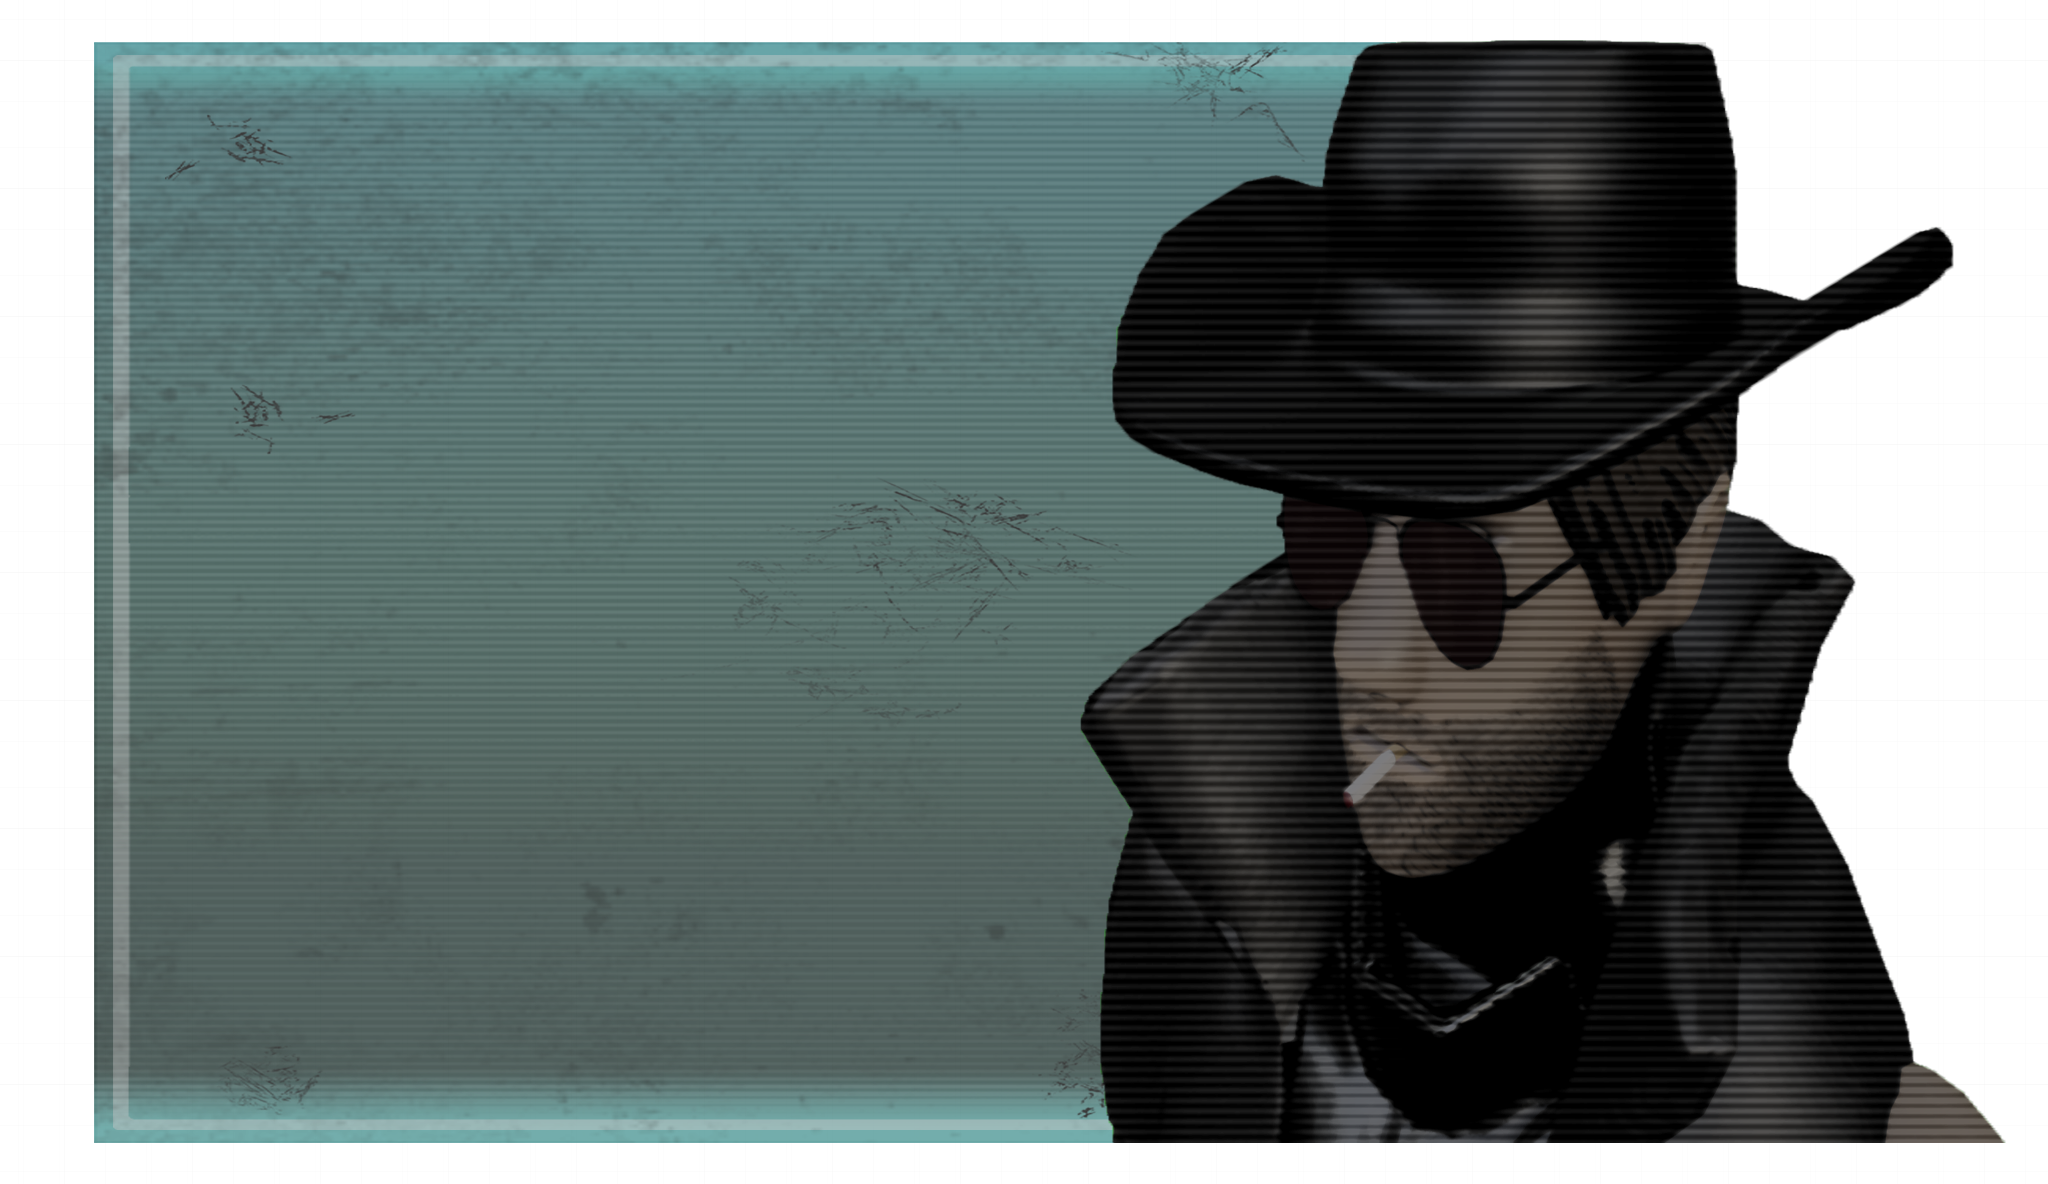
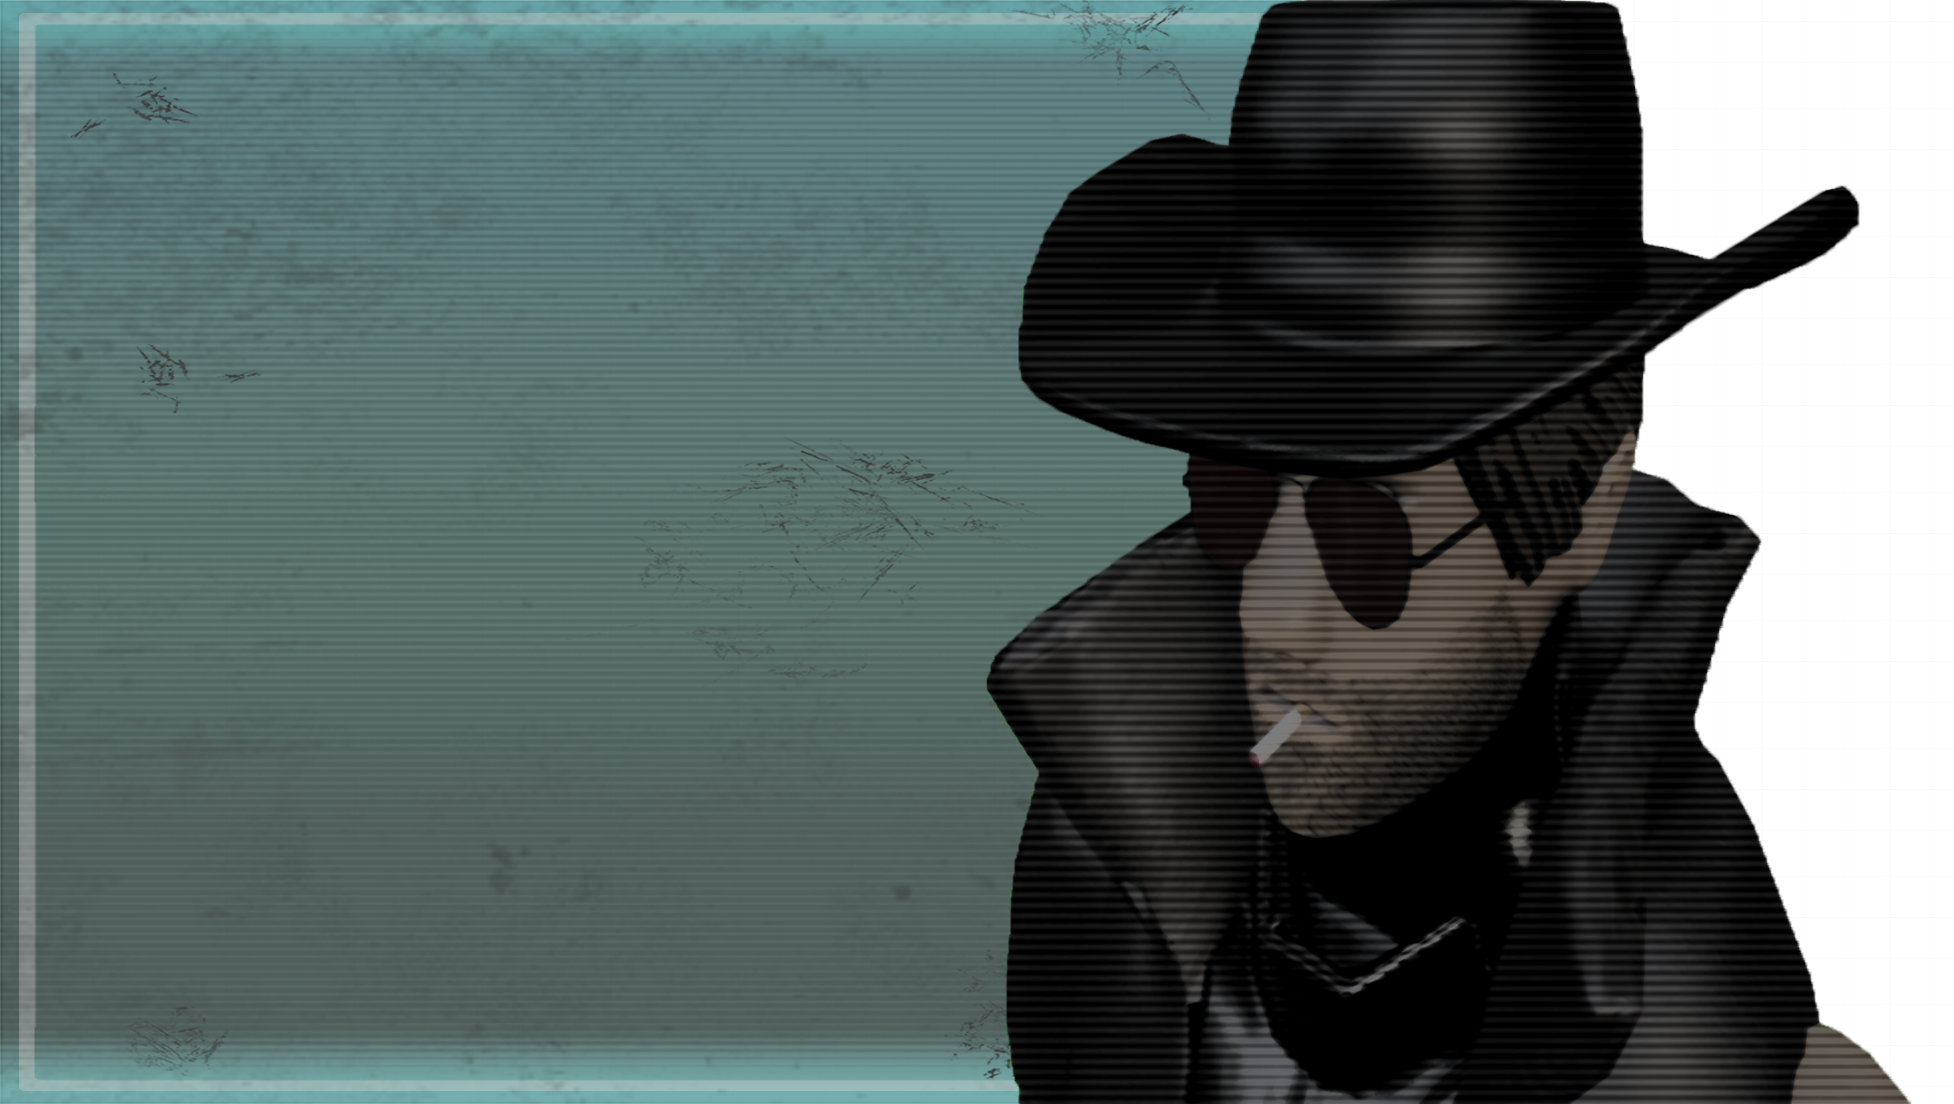
asdasdasd

Changed region(s): [[0.0, 0.0, 0.999, 1.0], [0.4371, 0.4004, 0.4995, 0.462]]

diff --git a/Moon.html b/Moon.html
@@ -3,14 +3,14 @@
 <head>
     <meta charset="UTF-8">
     <meta name="viewport" content="width=device-width, initial-scale=1.0">
-    <title>Lateral Shift - Home</title>
+    <title>Lateral Shift - Racers</title>
     <link href="https://cdn.jsdelivr.net/npm/bootstrap@5.3.3/dist/css/bootstrap.min.css" rel="stylesheet" integrity="sha384-QWTKZyjpPEjISv5WaRU9OFeRpok6YctnYmDr5pNlyT2bRjXh0JMhjY6hW+ALEwIH" crossorigin="anonymous">
     <link href="styles.css" rel="stylesheet">
     <link rel="preconnect" href="https://fonts.googleapis.com">
 <link rel="preconnect" href="https://fonts.gstatic.com" crossorigin>
 <link href="https://fonts.googleapis.com/css2?family=Oswald:wght@200..700&display=swap" rel="stylesheet">
 </head>
-<body>
+<body class="racer-page">
 
     <nav class="navbar navbar-expand-lg navbar-dark bg-black fixed-top">
         <div class="container-fluid">
@@ -38,49 +38,28 @@
             
             <div class="image-link position-absolute bottom-0 end-0 text-center">
                 <a href="#" class="download-link"><b>DEMO COMING SOON</b></a>
-            </div>            
-                      
+            </div>                              
         </div>
     </nav>
 
-    <div class="pagebg">
-
-    <div class="header-background"></div>
-
-    <!-- Overlapping Logo -->
-<div class="overlapping-logo text-center">
-    <img src="Logo.png" alt="Logo" style="height: 200px;"> <!-- Adjust the size as needed -->
-</div>
-
-<div class="Info-area">
-    <h1>Lateral Shift</h1>
-    <div class="info-details">
-    <h4>Release Date: TBD</h4>
-    <h4>Genre: Racing</h4>
-    <h4>Developer: Team Software Productions</h4>
-</div>
-</div>
-
-<div class="content-area">
-    <div class="text-and-images">
-        <!-- Text Container -->
-        <div class="text-content">
-            <h1 class="headline">Welcome to the 24th century</h1>
-            <p>Vroom vroom</p>
-            <p>NYOOOM</p>
-            <p>Voosh</p>
-            <!-- Add more <p> tags as needed -->
-        </div>
-
-        <!-- Images Container -->
-        <div class="image-content">
-            <img src="promo3.png" alt="First Image">
-            <img src="promo3.png" alt="Second Image">
+    <div class="content position-relative d-flex justify-content-center align-items-center" style="height:100vh;">
+        <!-- Positioning context for the text and image -->
+        <div class="position-relative w-100" style="margin-top: 150px; height: 90%; z-index: -1;">
+            <!-- Text element with absolute positioning -->
+            <div class="position-absolute" style="margin: 35px; left: 10%; z-index: 2;">
+                <h1 class="text-white px-2"><b>The Moon (Earth)</b></h1>
+                <h3 class="text-white px-2">Capital: Tokyo</h3>
+                <h3 class="text-white px-2">Faction: United Earth Systems (UES)</h3>
+                <br>
+                <p class="text-white px-2">Flavor text</p>
+            </div>
+            <!-- Image -->
+            <img src="MoonInfo.png" alt="Roadstar Information" class="position-absolute w-90 h-100" style="left: 10%">
         </div>
     </div>
-</div>
-
-</div>
+    
+    
+    
 
 <footer class="page-footer">
     <div class="container-fluid">
@@ -94,7 +73,6 @@
         </div>
     </div>
 </footer>
-
 
 <script src="https://cdn.jsdelivr.net/npm/bootstrap@5.3.3/dist/js/bootstrap.bundle.min.js" integrity="sha384-qmlep9F6cRgY6FM9D0A9lXm41W5onO3GXJpA6Nl+4y7fUpaY4HIF5CPItUj9mJP1" crossorigin="anonymous"></script>
 </body>

diff --git a/Earth.html b/Earth.html
@@ -3,14 +3,14 @@
 <head>
     <meta charset="UTF-8">
     <meta name="viewport" content="width=device-width, initial-scale=1.0">
-    <title>Lateral Shift - Home</title>
+    <title>Lateral Shift - Racers</title>
     <link href="https://cdn.jsdelivr.net/npm/bootstrap@5.3.3/dist/css/bootstrap.min.css" rel="stylesheet" integrity="sha384-QWTKZyjpPEjISv5WaRU9OFeRpok6YctnYmDr5pNlyT2bRjXh0JMhjY6hW+ALEwIH" crossorigin="anonymous">
     <link href="styles.css" rel="stylesheet">
     <link rel="preconnect" href="https://fonts.googleapis.com">
 <link rel="preconnect" href="https://fonts.gstatic.com" crossorigin>
 <link href="https://fonts.googleapis.com/css2?family=Oswald:wght@200..700&display=swap" rel="stylesheet">
 </head>
-<body>
+<body class="racer-page">
 
     <nav class="navbar navbar-expand-lg navbar-dark bg-black fixed-top">
         <div class="container-fluid">
@@ -38,49 +38,28 @@
             
             <div class="image-link position-absolute bottom-0 end-0 text-center">
                 <a href="#" class="download-link"><b>DEMO COMING SOON</b></a>
-            </div>            
-                      
+            </div>                              
         </div>
     </nav>
 
-    <div class="pagebg">
-
-    <div class="header-background"></div>
-
-    <!-- Overlapping Logo -->
-<div class="overlapping-logo text-center">
-    <img src="Logo.png" alt="Logo" style="height: 200px;"> <!-- Adjust the size as needed -->
-</div>
-
-<div class="Info-area">
-    <h1>Lateral Shift</h1>
-    <div class="info-details">
-    <h4>Release Date: TBD</h4>
-    <h4>Genre: Racing</h4>
-    <h4>Developer: Team Software Productions</h4>
-</div>
-</div>
-
-<div class="content-area">
-    <div class="text-and-images">
-        <!-- Text Container -->
-        <div class="text-content">
-            <h1 class="headline">Welcome to the 24th century</h1>
-            <p>Vroom vroom</p>
-            <p>NYOOOM</p>
-            <p>Voosh</p>
-            <!-- Add more <p> tags as needed -->
-        </div>
-
-        <!-- Images Container -->
-        <div class="image-content">
-            <img src="promo3.png" alt="First Image">
-            <img src="promo3.png" alt="Second Image">
+    <div class="content position-relative d-flex justify-content-center align-items-center" style="height:100vh;">
+        <!-- Positioning context for the text and image -->
+        <div class="position-relative w-100" style="margin-top: 150px; height: 90%; z-index: -1;">
+            <!-- Text element with absolute positioning -->
+            <div class="position-absolute" style="margin: 35px; left: 10%; z-index: 2;">
+                <h1 class="text-white px-2"><b>Earth</b></h1>
+                <h3 class="text-white px-2">Capital: Tokyo</h3>
+                <h3 class="text-white px-2">Faction: United Earth Systems (UES)</h3>
+                <br>
+                <p class="text-white px-2">Flavor text</p>
+            </div>
+            <!-- Image -->
+            <img src="EarthInfo.png" alt="Roadstar Information" class="position-absolute w-90 h-100" style="left: 10%">
         </div>
     </div>
-</div>
-
-</div>
+    
+    
+    
 
 <footer class="page-footer">
     <div class="container-fluid">
@@ -94,7 +73,6 @@
         </div>
     </div>
 </footer>
-
 
 <script src="https://cdn.jsdelivr.net/npm/bootstrap@5.3.3/dist/js/bootstrap.bundle.min.js" integrity="sha384-qmlep9F6cRgY6FM9D0A9lXm41W5onO3GXJpA6Nl+4y7fUpaY4HIF5CPItUj9mJP1" crossorigin="anonymous"></script>
 </body>

diff --git a/Mars.html b/Mars.html
@@ -3,14 +3,14 @@
 <head>
     <meta charset="UTF-8">
     <meta name="viewport" content="width=device-width, initial-scale=1.0">
-    <title>Lateral Shift - Home</title>
+    <title>Lateral Shift - Racers</title>
     <link href="https://cdn.jsdelivr.net/npm/bootstrap@5.3.3/dist/css/bootstrap.min.css" rel="stylesheet" integrity="sha384-QWTKZyjpPEjISv5WaRU9OFeRpok6YctnYmDr5pNlyT2bRjXh0JMhjY6hW+ALEwIH" crossorigin="anonymous">
     <link href="styles.css" rel="stylesheet">
     <link rel="preconnect" href="https://fonts.googleapis.com">
 <link rel="preconnect" href="https://fonts.gstatic.com" crossorigin>
 <link href="https://fonts.googleapis.com/css2?family=Oswald:wght@200..700&display=swap" rel="stylesheet">
 </head>
-<body>
+<body class="racer-page">
 
     <nav class="navbar navbar-expand-lg navbar-dark bg-black fixed-top">
         <div class="container-fluid">
@@ -38,49 +38,28 @@
             
             <div class="image-link position-absolute bottom-0 end-0 text-center">
                 <a href="#" class="download-link"><b>DEMO COMING SOON</b></a>
-            </div>            
-                      
+            </div>                              
         </div>
     </nav>
 
-    <div class="pagebg">
-
-    <div class="header-background"></div>
-
-    <!-- Overlapping Logo -->
-<div class="overlapping-logo text-center">
-    <img src="Logo.png" alt="Logo" style="height: 200px;"> <!-- Adjust the size as needed -->
-</div>
-
-<div class="Info-area">
-    <h1>Lateral Shift</h1>
-    <div class="info-details">
-    <h4>Release Date: TBD</h4>
-    <h4>Genre: Racing</h4>
-    <h4>Developer: Team Software Productions</h4>
-</div>
-</div>
-
-<div class="content-area">
-    <div class="text-and-images">
-        <!-- Text Container -->
-        <div class="text-content">
-            <h1 class="headline">Welcome to the 24th century</h1>
-            <p>Vroom vroom</p>
-            <p>NYOOOM</p>
-            <p>Voosh</p>
-            <!-- Add more <p> tags as needed -->
-        </div>
-
-        <!-- Images Container -->
-        <div class="image-content">
-            <img src="promo3.png" alt="First Image">
-            <img src="promo3.png" alt="Second Image">
+    <div class="content position-relative d-flex justify-content-center align-items-center" style="height:100vh;">
+        <!-- Positioning context for the text and image -->
+        <div class="position-relative w-100" style="margin-top: 150px; height: 90%; z-index: -1;">
+            <!-- Text element with absolute positioning -->
+            <div class="position-absolute" style="margin: 35px; left: 10%; z-index: 2;">
+                <h1 class="text-white px-2"><b>Mars</b></h1>
+                <h3 class="text-white px-2">Capital: </h3>
+                <h3 class="text-white px-2">Faction: United Earth Systems (UES)</h3>
+                <br>
+                <p class="text-white px-2">Flavor text</p>
+            </div>
+            <!-- Image -->
+            <img src="MarsInfo.png" alt="Roadstar Information" class="position-absolute w-90 h-100" style="left: 10%">
         </div>
     </div>
-</div>
-
-</div>
+    
+    
+    
 
 <footer class="page-footer">
     <div class="container-fluid">
@@ -94,7 +73,6 @@
         </div>
     </div>
 </footer>
-
 
 <script src="https://cdn.jsdelivr.net/npm/bootstrap@5.3.3/dist/js/bootstrap.bundle.min.js" integrity="sha384-qmlep9F6cRgY6FM9D0A9lXm41W5onO3GXJpA6Nl+4y7fUpaY4HIF5CPItUj9mJP1" crossorigin="anonymous"></script>
 </body>

diff --git a/Roadstar.html b/Roadstar.html
@@ -42,11 +42,22 @@
         </div>
     </nav>
 
-    <div class="content">
-        <img src="RoadstarInfo.png" alt="Roadstar Information" class="centered-img">
+    <div class="content position-relative d-flex justify-content-center align-items-center" style="height:100vh;">
+        <!-- Positioning context for the text and image -->
+        <div class="position-relative w-100" style="margin-top: 150px; height: 90%; z-index: -1;">
+            <!-- Text element with absolute positioning -->
+            <div class="position-absolute" style="margin: 35px; left: 10%; z-index: 2;">
+                <h1 class="text-white px-2"><b>Michael Roadstar</b></h1>
+                <h3 class="text-white px-2">Home planet: Mars</h3>
+                <h3 class="text-white px-2">Occupation: Bounty hunter</h3>
+                <br>
+                <p class="text-white px-2">Flavor text</p>
+            </div>
+            <!-- Image -->
+            <img src="RoadstarInfo.png" alt="Roadstar Information" class="position-absolute w-90 h-100" style="left: 10%">
+        </div>
     </div>
     
-
 <footer class="page-footer">
     <div class="container-fluid">
         <div class="row">

diff --git a/Locations.html b/Locations.html
@@ -48,13 +48,13 @@
     <div class="racers-header-background"></div>
 
     <div class="Pilot-profiles">
-        <a href="#" class="pilot" id="location1">
+        <a href="Earth.html" class="pilot" id="location1">
             <span class="pilot-text">EARTH</span>
         </a>
-        <a href="#" class="pilot" id="location2">
+        <a href="Mars.html" class="pilot" id="location2">
             <span class="pilot-text">MARS</span>
         </a>
-        <a href="#" class="pilot" id="location3">
+        <a href="Moon.html" class="pilot" id="location3">
             <span class="pilot-text">THE MOON</span>
         </a>
         <a href="#" class="pilot" style="background-image: url('CharacterProfileComingSoon.png');">

diff --git a/styles.css b/styles.css
@@ -340,21 +340,3 @@ body {
     background: url('Profilebg.png') no-repeat center center fixed;
     background-size: cover;
 }
-
-.content {
-    position: relative;
-    display: flex;
-    justify-content: center;
-    align-items: center;
-    text-align: center;
-    height: 100vh; /* Adjust height as needed */
-}
-
-.centered-img {
-    position: absolute;
-    margin-top: 150px;
-    max-width: 100%;
-    height: 90%;
-    z-index: -1; /* Ensures the image stays behind the text */
-}
-
